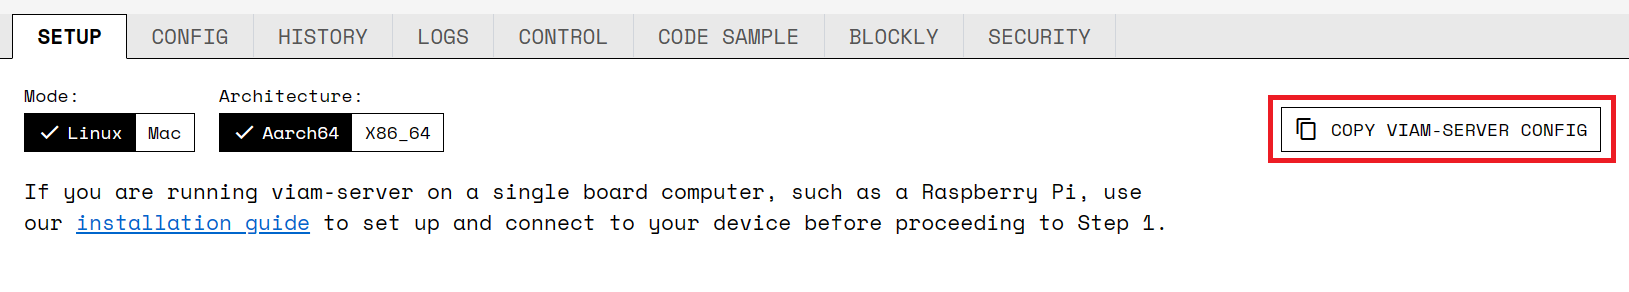
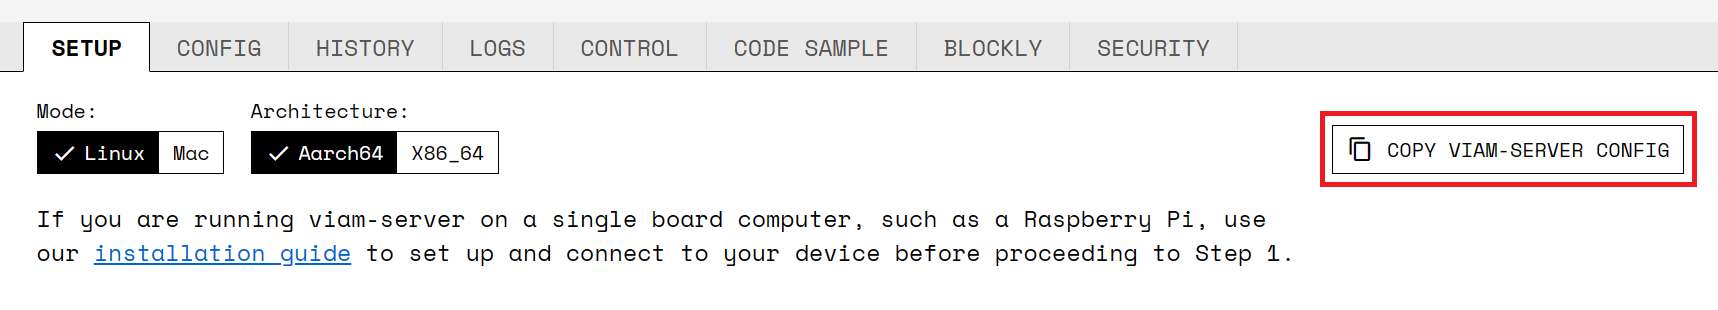
make image less tiny

diff --git a/docs/tutorials/build-a-mock-robot.md b/docs/tutorials/build-a-mock-robot.md
@@ -328,7 +328,7 @@ Be sure to save before continuing.
 
 In the upper right corner of the **SETUP** tab, click **COPY VIAM-SERVER CONFIG**.
 
-<img src="../img/build-a-mock-robot/image9.png" alt ="Screenshot from the Viam app showing the 'Copy Viam-Server Config' button highlighted by a red box." width="80%"><br>
+<img src="../img/build-a-mock-robot/image9.png" alt ="Screenshot from the Viam app showing the 'Copy Viam-Server Config' button highlighted by a red box."><br>
 
 On your local machine, create a new file called <file>viam-sub-part.json</file>, then paste the contents of your server config into that file and save.
 From the terminal, navigate to the directory where you saved the config file, and run this command to create a new instance of viam-server using this configuration.
